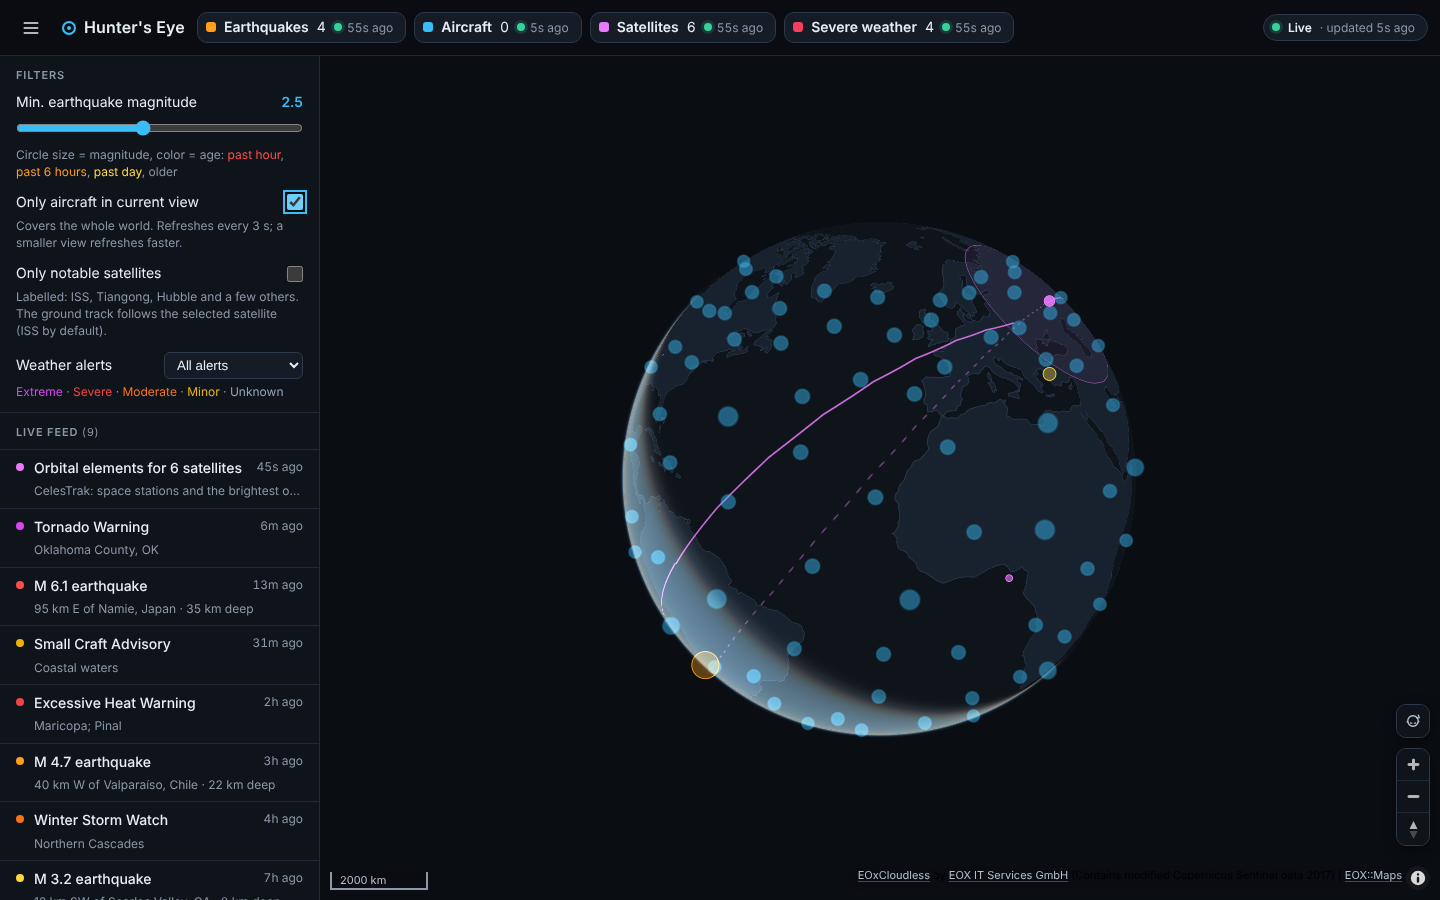
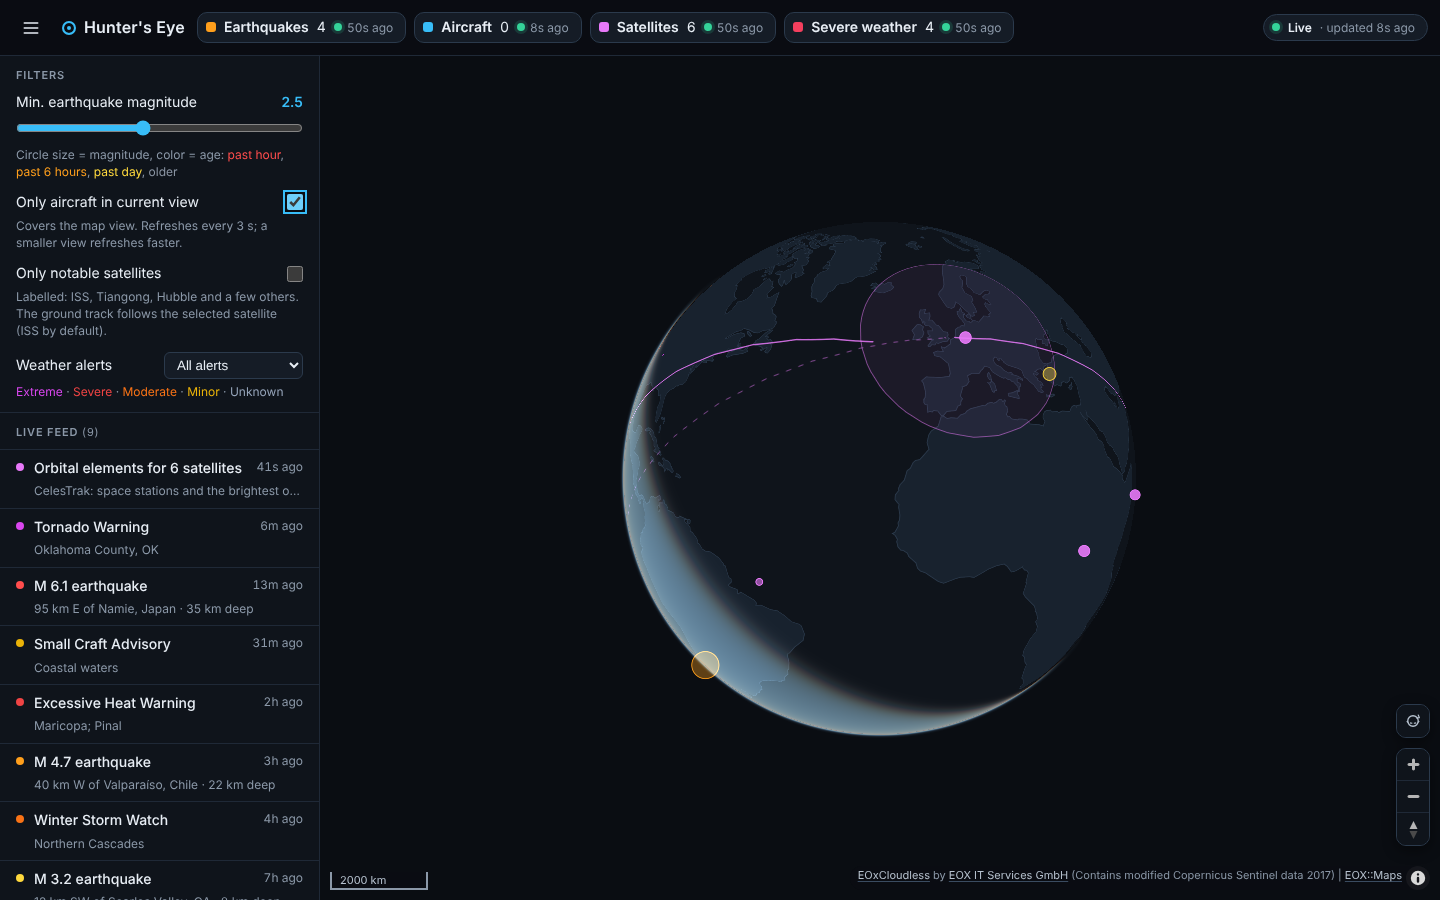
Fix what the review found
- Attribution text was black on the dark bar; keyboard focus rings on the
  globe buttons were suppressed.
- Focusing a plane left the previous one highlighted; a selected plane that
  left the data kept a stale panel open.
- "Only aircraft in current view" treated a view with a pole on screen as
  the whole world; it now uses a box around the centre, as when tilted.
- fadeDuration 0 forced full symbol placement every frame; now 150 ms.
- Imagery tiles that 404 never triggered the NASA fallback; one tile is
  probed after each style load.
- The imagery layer stops at z12 whatever IMAGERY_MAXZOOM says.
- Weather re-tiles only when an outline changed.
- Spin: gestures and keys no longer cancel MapLibre's own animations, and
  a keyboard pan resumes the spin like a mouse one.
- Brief: thinking off and room for the reply, trimmed snapshot and a larger
  body limit, keyboard focus kept and the result announced, cost in the hint.

Claude-Session: https://claude.ai/code/session_014PHj6grH9qk5qbHSt7hR8W

diff --git a/public/js/globe.js b/public/js/globe.js
@@ -30,7 +30,7 @@ export function createGlobe(container, { phone = false, detail, feed } = {}) {
     minZoom: 0.8,
     maxZoom: 19,
     maxPitch: phone ? 60 : 70,
-    fadeDuration: 0,
+    fadeDuration: 150, // 0 would force full symbol placement every frame
     pixelRatio: Math.min(window.devicePixelRatio || 1, 2),
     canvasContextAttributes: { antialias: false, powerPreference: 'high-performance' },
     cancelPendingTileRequestsWhileZooming: true,
@@ -60,6 +60,21 @@ export function createGlobe(container, { phone = false, detail, feed } = {}) {
 
   // The basemap style, fetched here so it can be edited before use. When it can't
   // be fetched the continents style stays, and the data layers are unaffected.
+  // MapLibre never reports a 404 tile, so a retired imagery path would leave the
+  // sphere bare: probe one low-zoom tile after the style loads and fall back.
+  async function probeImagery(imagery) {
+    if (!imagery?.tiles || imagerySwapped) return;
+    const url = imagery.tiles.replace('{z}', '2').replace('{x}', '1').replace('{y}', '1');
+    try {
+      const res = await fetch(url, { mode: 'cors', cache: 'force-cache' });
+      if (res.status === 404 || res.status === 410) throw new Error(`HTTP ${res.status}`);
+    } catch (err) {
+      if (!/HTTP 4(04|10)/.test(err.message)) return; // network/CORS failures are counted by the error handler
+      console.warn(`Imagery probe failed (${err.message}); switching to NASA Blue Marble`);
+      fallbackImagery();
+    }
+  }
+
   async function loadBasemap(url, imagery) {
     let base;
     try {
@@ -72,6 +87,7 @@ export function createGlobe(container, { phone = false, detail, feed } = {}) {
     }
     styleReady = false;
     map.setStyle(buildStyle(base, { imagery }), { diff: false });
+    map.once('style.load', () => probeImagery(imagery));
   }
 
   // Swap the imagery tiles in place (used for the automatic NASA fallback).
@@ -82,7 +98,7 @@ export function createGlobe(container, { phone = false, detail, feed } = {}) {
     if (map.getLayer(IMAGERY_LAYER)) map.removeLayer(IMAGERY_LAYER);
     if (map.getSource(IMAGERY_SOURCE)) map.removeSource(IMAGERY_SOURCE);
     map.addSource(IMAGERY_SOURCE, imagerySource(imagery));
-    map.addLayer(imageryLayer(imagery.maxzoom), before);
+    map.addLayer(imageryLayer(), before);
   }
 
   // Tile and glyph failures are expected on a free stack: log them quietly, and
@@ -99,18 +115,23 @@ export function createGlobe(container, { phone = false, detail, feed } = {}) {
     imageryFailures = imageryFailures.filter((t) => now - t < 60_000);
     imageryFailures.push(now);
     if (imageryFailures.length < IMAGERY_FAILURES) return;
+    fallbackImagery();
+  });
+
+  function fallbackImagery() {
+    if (imagerySwapped || !map.getSource(IMAGERY_SOURCE)) return;
     imagerySwapped = true;
     swapImagery(IMAGERY.bluemarble);
     feed?.add({
-      id: `system:imagery:${now}`,
+      id: `system:imagery:${Date.now()}`,
       source: 'system',
       system: true,
-      time: now,
+      time: Date.now(),
       color: 'var(--warn)',
       title: 'Imagery switched to NASA Blue Marble',
       subtitle: 'The satellite imagery tiles were not reachable',
     });
-  });
+  }
 
   // --- clicks and hover -------------------------------------------------------
   let interactive = []; // [{ layer, priority, owner }], set by app.js when visibility changes
@@ -181,7 +202,9 @@ export function createGlobe(container, { phone = false, detail, feed } = {}) {
     const b = map.getBounds();
     const c = map.getCenter();
     let lamin = b.getSouth(), lamax = b.getNorth(), lomin = b.getWest(), lomax = b.getEast();
-    if (map.getPitch() > 45) {
+    // With a pole on screen the globe's bounds widen to the whole world; a tilt
+    // balloons the far edge. Both cases fall back to a box around the centre.
+    if (map.getPitch() > 45 || lomax - lomin >= 360) {
       const flat = (360 / 2 ** zoom) * (map.getContainer().clientWidth / 512);
       const cap = 1.5 * flat;
       lomin = Math.max(lomin, c.lng - cap);

diff --git a/public/css/style.css b/public/css/style.css
@@ -230,15 +230,15 @@ body.sidebar-open .sidebar { transform: none; }
 .maplibregl-ctrl-group button:last-child { border-bottom: 0; }
 .maplibregl-ctrl-group button:hover { background: var(--panel-2); color: var(--text); }
 .maplibregl-ctrl-group button:active { background: var(--panel-3); color: var(--text); }
-.maplibregl-ctrl-group button:focus, .maplibregl-ctrl-group button:focus:focus-visible { box-shadow: none; }
-.maplibregl-ctrl-group button:focus-visible { outline: none; box-shadow: var(--ring-inset); }
+.maplibregl-ctrl-group button:focus:not(:focus-visible) { box-shadow: none; }
+.maplibregl-ctrl-group button:focus:focus-visible { outline: none; box-shadow: var(--ring-inset); }
 .maplibregl-ctrl-group button:disabled { color: var(--muted); opacity: 0.45; }
 .maplibregl-ctrl-group button .maplibregl-ctrl-icon, .maplibregl-ctrl-attrib-button { filter: invert(0.85) hue-rotate(180deg); }
 .maplibregl-ctrl-group button.he-ctrl-spin { display: grid; place-items: center; }
 .he-ctrl-spin[aria-pressed="true"] { color: var(--accent); }
 .maplibregl-ctrl-attrib { background: var(--glass); color: var(--muted); font-size: var(--text-xs);
   padding: 2px var(--space-2); border-top-left-radius: var(--radius-sm); backdrop-filter: blur(6px); -webkit-backdrop-filter: blur(6px); }
-.maplibregl-ctrl-attrib.maplibregl-compact { background: var(--glass); }
+.maplibregl-ctrl-attrib.maplibregl-compact { background: var(--glass); color: var(--muted); }
 .maplibregl-ctrl-attrib a { color: var(--text-2); text-decoration: underline;
   text-decoration-color: var(--border-hover); text-underline-offset: 2px; }
 .maplibregl-ctrl-attrib a:hover, .maplibregl-ctrl-attrib a:focus { text-decoration-color: currentColor; }
@@ -259,7 +259,7 @@ body.sidebar-open .sidebar { transform: none; }
 .brief-btn:hover { background: var(--panel-3); }
 .brief-btn:active { background: var(--panel-4); }
 .brief-btn:focus-visible { outline: none; box-shadow: var(--ring); }
-.brief-btn:disabled { opacity: 0.6; cursor: progress; }
+.brief-btn[aria-busy="true"] { opacity: 0.6; cursor: progress; }
 .brief-text { margin: var(--space-2) 0 0; white-space: pre-line; font-size: var(--text-sm); color: var(--text); }
 .brief-text:empty { display: none; }
 .brief-text.error { color: var(--bad); }

diff --git a/public/js/ui/brief.js b/public/js/ui/brief.js
@@ -8,10 +8,10 @@ export function createBrief(root, { snapshot, fetchImpl = fetch } = {}) {
   const button = el('button', { type: 'button', class: 'brief-btn' }, 'Brief me');
   const meta = el('div', { class: 'brief-meta muted' });
   const output = el('p', { class: 'brief-text' });
-  const body = el('div', { class: 'brief-body' }, output, meta);
+  const body = el('div', { class: 'brief-body', role: 'status', 'aria-live': 'polite' }, output, meta);
   root.append(
     el('h2', {}, 'Situation brief ', el('span', { class: 'muted' }, 'by Claude')),
-    el('div', { class: 'brief-row' }, button, el('span', { class: 'brief-hint muted' }, 'A short read of what is on the globe right now.')),
+    el('div', { class: 'brief-row' }, button, el('span', { class: 'brief-hint muted' }, 'A short read of what is on the globe right now. About a thirtieth of a cent per press.')),
     body,
   );
   root.hidden = true;
@@ -20,7 +20,7 @@ export function createBrief(root, { snapshot, fetchImpl = fetch } = {}) {
   async function run() {
     if (busy) return;
     busy = true;
-    button.disabled = true;
+    button.setAttribute('aria-busy', 'true'); // stays enabled so keyboard focus is kept
     button.textContent = 'Writing…';
     output.classList.remove('error');
     try {
@@ -32,7 +32,7 @@ export function createBrief(root, { snapshot, fetchImpl = fetch } = {}) {
       const data = await res.json().catch(() => ({}));
       if (!res.ok) throw new Error(data.error || `HTTP ${res.status}`);
       output.textContent = data.text;
-      const cost = data.costUsd != null ? ` · cost ${data.costUsd < 0.001 ? '<0.1¢' : `${num(data.costUsd * 100, 1)}¢`}` : '';
+      const cost = data.costUsd != null ? ` · cost ${data.costUsd < 0.001 ? '<0.1¢' : `${num(data.costUsd * 100, 1)}¢`}` : ' · cost not known for this model';
       meta.textContent = `${data.model || 'Claude'} · ${timeAgo(data.at)}${cost}`;
     } catch (err) {
       output.textContent = err.message;
@@ -40,7 +40,7 @@ export function createBrief(root, { snapshot, fetchImpl = fetch } = {}) {
       meta.textContent = '';
     } finally {
       busy = false;
-      button.disabled = false;
+      button.removeAttribute('aria-busy');
       button.textContent = 'Brief me';
     }
   }

diff --git a/server/brief.js b/server/brief.js
@@ -13,7 +13,7 @@ import Anthropic from '@anthropic-ai/sdk';
 export const DEFAULT_MODEL = 'claude-haiku-5-5';
 const PRICE = { 'claude-haiku-5-5': { input: 0.1, output: 0.5 } }; // USD per million tokens
 const MAX_EVENTS = 40;
-const MAX_BODY = '24kb';
+const MAX_BODY = '128kb'; // the sanitiser below is the real bound
 
 const SYSTEM = `You write the situation brief for "Hunter's Eye", a public dashboard that shows live earthquakes (USGS), aircraft positions (OpenSky Network), satellites (CelesTrak orbital elements) and US severe weather alerts (National Weather Service) on a 3D globe.
 You get a JSON snapshot of what the dashboard currently shows. Write what an analyst would say out loud to a colleague who just walked in: the few things that matter, in plain English.
@@ -70,7 +70,8 @@ export function sdkAsk({ apiKey, model, timeoutMs = 30_000 }) {
   return async (snapshot) => {
     const response = await client.messages.create({
       model,
-      max_tokens: 400,
+      max_tokens: 1024, // room for the brief; thinking is off so none is spent reasoning
+      thinking: { type: 'disabled' },
       system: SYSTEM,
       messages: [{ role: 'user', content: `Snapshot:\n${JSON.stringify(snapshot)}` }],
     });
@@ -97,8 +98,9 @@ export function createBriefRoute({ apiKey = process.env.ANTHROPIC_API_KEY, model
       return res.status(400).json({ error: err.message });
     }
     try {
-      const { text, usage } = await run(snapshot);
+      const { text, usage, stopReason } = await run(snapshot);
       if (!text) return res.status(502).json({ error: 'Claude returned an empty brief.' });
+      if (stopReason === 'max_tokens') console.warn('[brief] reply hit max_tokens; it may be cut short');
       res.json({ text, model, usage, costUsd: estimateCost(model, usage), at: Date.now() });
     } catch (err) {
       const status = err?.status === 429 ? 429 : err?.status === 401 ? 502 : 502;

diff --git a/public/js/globe/style.js b/public/js/globe/style.js
@@ -76,13 +76,14 @@ export function imagerySource(imagery) {
 }
 
 // Full-strength imagery from space until z9.5, gone by z12, where the vector
-// map's roads, water, parks and labels have taken over.
-export function imageryLayer(maxzoom = 12) {
+// map's roads, water, parks and labels have taken over. The layer ends at z12
+// whatever the source offers, so no invisible tile is ever requested.
+export function imageryLayer() {
   return {
     id: IMAGERY_LAYER,
     type: 'raster',
     source: IMAGERY_SOURCE,
-    maxzoom: Math.max(12, maxzoom),
+    maxzoom: 12,
     paint: {
       'raster-opacity': ['interpolate', ['linear'], ['zoom'], 9.5, 1, 12, 0],
       'raster-fade-duration': 0,
@@ -150,7 +151,7 @@ export function buildStyle(base, { imagery } = {}) {
 
   if (imagery?.tiles) {
     style.sources[IMAGERY_SOURCE] = imagerySource(imagery);
-    style.layers.splice(imageryIndex(style.layers), 0, imageryLayer(imagery.maxzoom));
+    style.layers.splice(imageryIndex(style.layers), 0, imageryLayer());
   }
 
   if (style.sources.openmaptiles && !style.layers.some((l) => l.type === 'fill-extrusion')) {

diff --git a/public/js/layers/aircraft.js b/public/js/layers/aircraft.js
@@ -212,6 +212,7 @@ export default function create(ctx) {
   function focus(icao) {
     const a = byIcao.get(icao);
     if (!a || !api.visible) return;
+    if (selected && selected !== icao) applySelectionState(selected, false);
     selected = icao; // so a close-in subset push includes it
     render(); // the icon sits exactly where the camera lands
     // Select before flying: ctx.select() pauses the spin with map.stop(), which
@@ -237,8 +238,14 @@ export default function create(ctx) {
         onClick: () => focus(a.icao24),
       });
     }
-    if (selected && detail.key === `aircraft:${selected}`) {
-      if (byIcao.has(selected)) showDetail(byIcao.get(selected));
+    if (selected && !byIcao.has(selected)) {
+      // The plane left the data (out of the view box, or dropped by OpenSky).
+      const gone = selected;
+      applySelectionState(gone, false);
+      selected = null;
+      if (detail.key === `aircraft:${gone}`) detail.hide();
+    } else if (selected && detail.key === `aircraft:${selected}`) {
+      showDetail(byIcao.get(selected));
     }
     render();
   }

diff --git a/public/js/layers/weather.js b/public/js/layers/weather.js
@@ -136,8 +136,10 @@ export default function create(ctx) {
 
   function update({ alerts, zones }) {
     const seen = new Set(alerts.map((a) => a.id));
+    let changed = false; // only a changed outline set is worth re-tiling
     for (const [id, s] of shapes) {
       if (seen.has(id)) continue;
+      changed = true;
       shapes.delete(id);
       feed.remove(`weather:${id}`);
       if (id === selected) {
@@ -157,6 +159,7 @@ export default function create(ctx) {
         entry.polygons = polygons;
         entry.polygonCount = polygons.length;
         entry.feature = polygons.length ? alertFeature(a, polygons) : null;
+        changed = true;
       }
       shapes.set(a.id, entry);
       if (!existing) {
@@ -172,7 +175,7 @@ export default function create(ctx) {
         });
       }
     }
-    render();
+    if (changed) render();
     if (selected && shapes.has(selected) && detail.key === `weather:${selected}`) showDetail(shapes.get(selected).alert);
   }
 

diff --git a/public/js/globe/spin.js b/public/js/globe/spin.js
@@ -64,7 +64,7 @@ export function createSpin(map, { phone = false, isBlocked = () => false } = {})
     map.on(ev, () => {
       interacting = true;
       clearTimeout(timer);
-      map.stop();
+      if (spinning) map.stop(); // only the spin's own ease; MapLibre's handlers stay intact
       if (phone && enabled) {
         enabled = false; // a phone spins again only when its control is pressed
         changed();
@@ -73,7 +73,12 @@ export function createSpin(map, { phone = false, isBlocked = () => false } = {})
   }
   map.getCanvas().addEventListener('keydown', () => {
     interacting = true;
-    map.stop();
+    clearTimeout(timer);
+    if (spinning) map.stop();
+  });
+  map.getCanvas().addEventListener('keyup', () => {
+    interacting = false;
+    later();
   });
   for (const ev of ['mouseup', 'touchend', 'dragend', 'zoomend', 'pitchend', 'rotateend']) {
     map.on(ev, () => {

diff --git a/public/js/app.js b/public/js/app.js
@@ -135,9 +135,9 @@ const brief = createBrief(document.getElementById('brief'), {
     feeds: lastSources.map((s) => fallbacks.status(s)).map((s) => ({
       id: s.id,
       state: s.error ? 'failing' : s.updatedAt ? (s.via === 'browser' ? 'ok via browser' : 'ok') : 'loading',
-      detail: s.error || s.note || '',
+      detail: String(s.error || s.note || '').slice(0, 160),
     })),
-    events: feed.visible(40).map((e) => ({ source: e.source, time: new Date(e.time).toISOString(), title: e.title, subtitle: e.subtitle })),
+    events: feed.visible(40).map((e) => ({ source: e.source, time: new Date(e.time).toISOString(), title: String(e.title ?? '').slice(0, 160), subtitle: String(e.subtitle ?? '').slice(0, 200) })),
   }),
 });
 

diff --git a/test/globe-style.test.js b/test/globe-style.test.js
@@ -34,6 +34,9 @@ test('imagery goes above the opening run of fills and below the first line', () 
   assert.equal(order[order.indexOf('he-imagery') + 1], 'waterway');
   assert.equal(style.sources['he-imagery'].tiles[0], IMAGERY.eox2017.tiles);
   assert.equal(style.sources['he-imagery'].maxzoom, 12);
+  const deep = buildStyle(dark(), { imagery: { ...IMAGERY.eox2017, maxzoom: 18 } });
+  assert.equal(deep.sources['he-imagery'].maxzoom, 18);
+  assert.equal(deep.layers.find((l) => l.id === 'he-imagery').maxzoom, 12);
   assert.equal(style.layers.find((l) => l.id === 'he-imagery').source, 'he-imagery');
 });
 

diff --git a/README.md b/README.md
@@ -64,7 +64,7 @@ With `ANTHROPIC_API_KEY` set, a **Situation brief** section appears at the top o
 
 - The key lives only on the server (`server/brief.js`); the browser never sees it.
 - A brief is about 1,500 tokens in and 250 out, which is roughly **$0.0003** at Haiku 5.5's prices ($0.10 and $0.50 per million tokens). The response shows the cost of each brief.
-- Because the page may be public, the server allows one brief every 5 seconds and 20 an hour across all visitors, so the worst case is about half a cent an hour. Change `BRIEF_MODEL` to use another model.
+- Because the page may be public, the server allows one brief every 5 seconds and 20 an hour across all visitors, so the worst case with Haiku 5.5 is about half a cent an hour. `BRIEF_MODEL` picks another model; the per-brief cost is then only shown if that model's prices are added to `PRICE` in `server/brief.js`.
 - Without a key the route answers 404 and the section stays hidden.
 
 ## Data sources and limits
